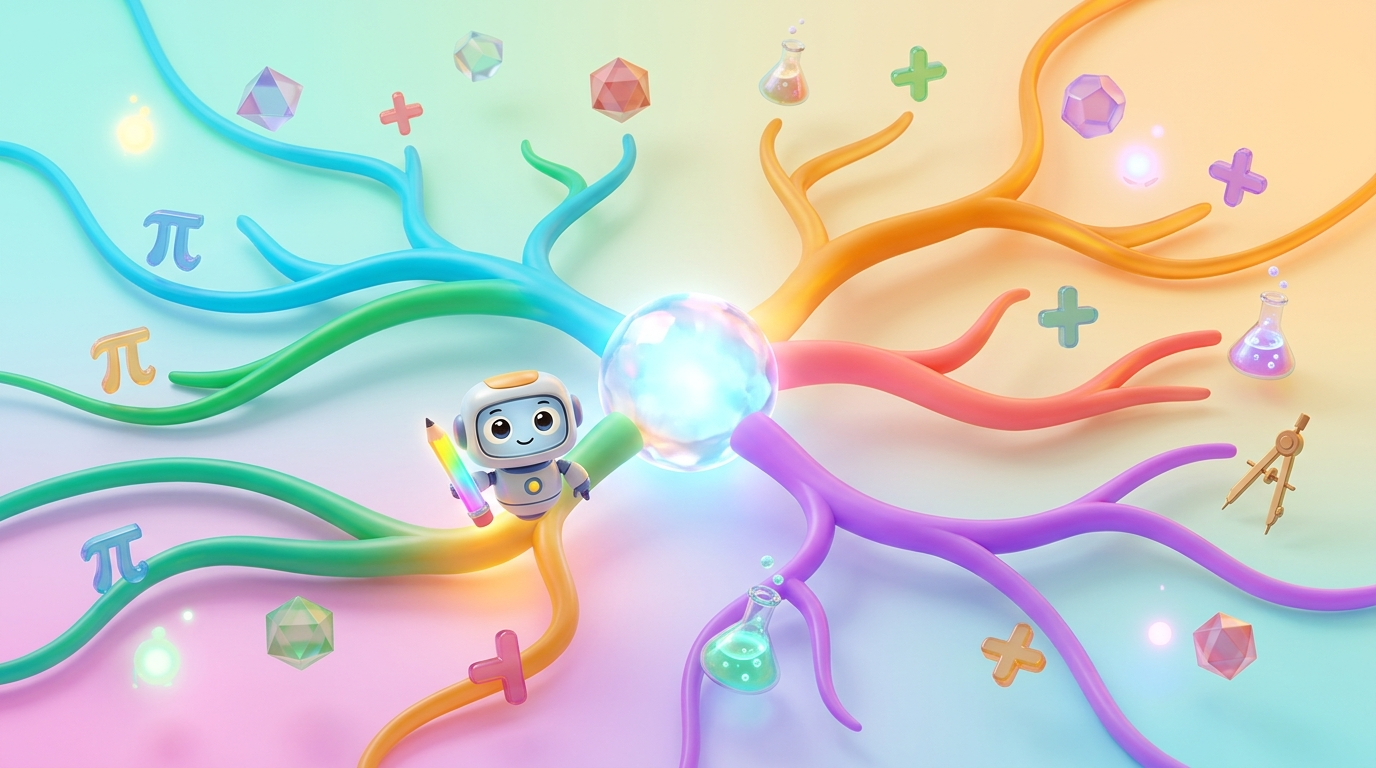
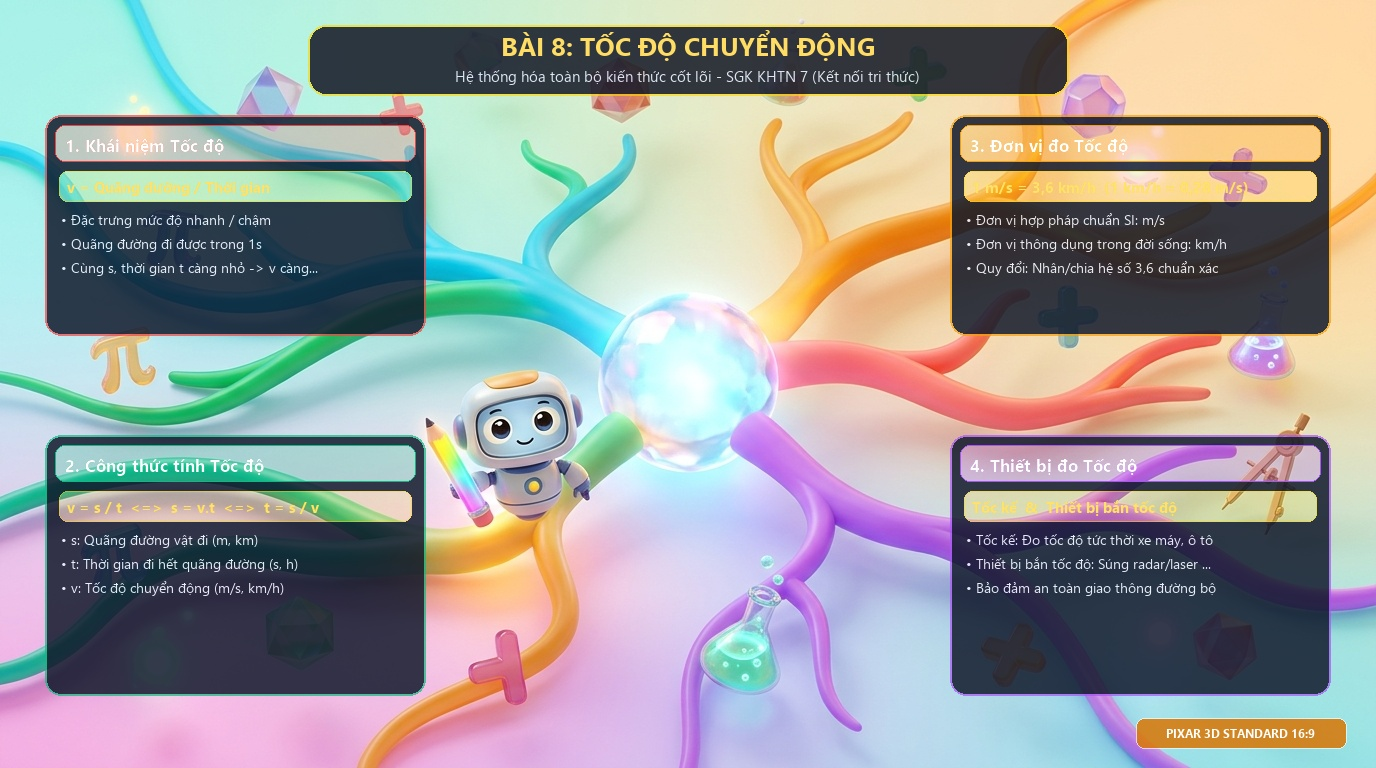
feat: Hien thi day du noi dung bai hoc tren cac nhanh so do tu duy 3D Pixar

diff --git a/src/components/PixarMindmapView.tsx b/src/components/PixarMindmapView.tsx
@@ -21,9 +21,12 @@ export const PixarMindmapView: React.FC<PixarMindmapViewProps> = ({ soDoTuDuy })
     document.body.removeChild(link);
   };
 
+  // Kiểm tra ảnh đã được gắn sẵn nội dung bài học vào các nhánh hay chưa
+  const isGenericBackground = soDoTuDuy.imageUrl?.includes('mindmap-pixar-bg.jpg');
+
   return (
     <div className="my-3 rounded-2xl border-2 border-amber-300 bg-gradient-to-br from-amber-50/90 via-orange-50/40 to-pink-50/70 p-3 sm:p-4 shadow-md transition-all">
-      {/* Header bar - Gọn gàng, chỉ tập trung vào Sơ đồ tư duy 16:9 */}
+      {/* Header bar - Tinh gọn, sang trọng */}
       <div className="flex flex-wrap items-center justify-between gap-2 pb-2 mb-2 border-b border-amber-200/80">
         <div className="flex items-center gap-2">
           <div className="w-7 h-7 rounded-lg bg-gradient-to-tr from-amber-500 to-orange-400 text-white flex items-center justify-center shadow-xs">
@@ -66,30 +69,122 @@ export const PixarMindmapView: React.FC<PixarMindmapViewProps> = ({ soDoTuDuy })
         </div>
       </div>
 
-      {/* Main 16:9 Canvas / Image Display - 100% chuẩn phong cách 3D Pixar */}
+      {/* Main 16:9 Canvas / Image Display - Hiển thị đầy đủ nội dung bài học trên các nhánh */}
       <div className="relative w-full aspect-[16/9] rounded-xl overflow-hidden shadow-inner border border-amber-200/80 bg-slate-900 flex items-center justify-center">
         {soDoTuDuy.imageUrl ? (
           <div className="relative w-full h-full group">
             <img
               src={soDoTuDuy.imageUrl}
               alt={soDoTuDuy.chuDeChinh}
-              className="w-full h-full object-cover sm:object-contain transition-transform duration-300 group-hover:scale-[1.01]"
+              className="w-full h-full object-cover sm:object-contain transition-transform duration-300"
             />
-            {/* Overlay badge on image */}
-            <div className="absolute top-3 left-3 bg-black/60 backdrop-blur-md px-3 py-1.5 rounded-lg text-white border border-white/20">
-              <p className="text-[10pt] font-bold text-amber-300 uppercase tracking-wide">
-                {soDoTuDuy.chuDeChinh}
-              </p>
-              {soDoTuDuy.moTaChuDe && (
-                <p className="text-[8.5pt] text-slate-200 line-clamp-1">
-                  {soDoTuDuy.moTaChuDe}
-                </p>
-              )}
-            </div>
-            {/* Watermark 3D Pixar */}
-            <div className="absolute bottom-3 right-3 bg-amber-500/80 backdrop-blur-md px-2.5 py-1 rounded-md text-white text-[9pt] font-black tracking-wider uppercase shadow-xs">
-              Pixar 3D Standard 16:9
-            </div>
+
+            {/* Nếu là ảnh nền chung chưa có sẵn chữ, overlay các nhánh nội dung bài học lên 4 góc nhánh 3D */}
+            {isGenericBackground && (
+              <>
+                {/* Title Bar ở giữa phía trên */}
+                <div className="absolute top-2 left-1/2 -translate-x-1/2 bg-slate-950/85 backdrop-blur-md px-4 py-1.5 rounded-2xl border border-amber-400/70 shadow-xl text-center z-10 max-w-[80%]">
+                  <h4 className="text-[10pt] sm:text-[12pt] font-black uppercase text-amber-300 tracking-wide line-clamp-1">
+                    {soDoTuDuy.chuDeChinh}
+                  </h4>
+                  {soDoTuDuy.moTaChuDe && (
+                    <p className="text-[7.5pt] sm:text-[8.5pt] text-slate-200 line-clamp-1 hidden sm:block">
+                      {soDoTuDuy.moTaChuDe}
+                    </p>
+                  )}
+                </div>
+
+                {/* 4 Nhánh nội dung bài học gắn trên các nhánh 3D Pixar */}
+                {soDoTuDuy.danhSachNhanh && soDoTuDuy.danhSachNhanh.length > 0 && (
+                  <>
+                    {/* Nhánh 1: Góc trên bên trái */}
+                    {soDoTuDuy.danhSachNhanh[0] && (
+                      <div className="absolute top-[14%] left-[2%] w-[32%] sm:w-[30%] bg-slate-950/85 backdrop-blur-md p-2 rounded-xl border border-sky-400/70 shadow-lg text-white">
+                        <div className="flex items-center gap-1 font-bold text-[8.5pt] sm:text-[9.5pt] text-sky-300 mb-1">
+                          <span>{soDoTuDuy.danhSachNhanh[0].icon3D || '📌'}</span>
+                          <span className="line-clamp-1">{soDoTuDuy.danhSachNhanh[0].tieuDe}</span>
+                        </div>
+                        {soDoTuDuy.danhSachNhanh[0].congThuc && (
+                          <div className="px-1.5 py-0.5 rounded bg-amber-400/20 text-amber-300 font-mono text-[8pt] font-bold mb-1 line-clamp-1">
+                            {soDoTuDuy.danhSachNhanh[0].congThuc}
+                          </div>
+                        )}
+                        <ul className="text-[7.5pt] sm:text-[8.5pt] text-slate-200 space-y-0.5 leading-tight">
+                          {soDoTuDuy.danhSachNhanh[0].cacYCon.slice(0, 3).map((y, yi) => (
+                            <li key={yi} className="line-clamp-1">• {y}</li>
+                          ))}
+                        </ul>
+                      </div>
+                    )}
+
+                    {/* Nhánh 2: Góc dưới bên trái */}
+                    {soDoTuDuy.danhSachNhanh[1] && (
+                      <div className="absolute bottom-[5%] left-[2%] w-[32%] sm:w-[30%] bg-slate-950/85 backdrop-blur-md p-2 rounded-xl border border-emerald-400/70 shadow-lg text-white">
+                        <div className="flex items-center gap-1 font-bold text-[8.5pt] sm:text-[9.5pt] text-emerald-300 mb-1">
+                          <span>{soDoTuDuy.danhSachNhanh[1].icon3D || '📌'}</span>
+                          <span className="line-clamp-1">{soDoTuDuy.danhSachNhanh[1].tieuDe}</span>
+                        </div>
+                        {soDoTuDuy.danhSachNhanh[1].congThuc && (
+                          <div className="px-1.5 py-0.5 rounded bg-amber-400/20 text-amber-300 font-mono text-[8pt] font-bold mb-1 line-clamp-1">
+                            {soDoTuDuy.danhSachNhanh[1].congThuc}
+                          </div>
+                        )}
+                        <ul className="text-[7.5pt] sm:text-[8.5pt] text-slate-200 space-y-0.5 leading-tight">
+                          {soDoTuDuy.danhSachNhanh[1].cacYCon.slice(0, 3).map((y, yi) => (
+                            <li key={yi} className="line-clamp-1">• {y}</li>
+                          ))}
+                        </ul>
+                      </div>
+                    )}
+
+                    {/* Nhánh 3: Góc trên bên phải */}
+                    {soDoTuDuy.danhSachNhanh[2] && (
+                      <div className="absolute top-[14%] right-[2%] w-[32%] sm:w-[30%] bg-slate-950/85 backdrop-blur-md p-2 rounded-xl border border-amber-400/70 shadow-lg text-white">
+                        <div className="flex items-center gap-1 font-bold text-[8.5pt] sm:text-[9.5pt] text-amber-300 mb-1">
+                          <span>{soDoTuDuy.danhSachNhanh[2].icon3D || '📌'}</span>
+                          <span className="line-clamp-1">{soDoTuDuy.danhSachNhanh[2].tieuDe}</span>
+                        </div>
+                        {soDoTuDuy.danhSachNhanh[2].congThuc && (
+                          <div className="px-1.5 py-0.5 rounded bg-amber-400/20 text-amber-300 font-mono text-[8pt] font-bold mb-1 line-clamp-1">
+                            {soDoTuDuy.danhSachNhanh[2].congThuc}
+                          </div>
+                        )}
+                        <ul className="text-[7.5pt] sm:text-[8.5pt] text-slate-200 space-y-0.5 leading-tight">
+                          {soDoTuDuy.danhSachNhanh[2].cacYCon.slice(0, 3).map((y, yi) => (
+                            <li key={yi} className="line-clamp-1">• {y}</li>
+                          ))}
+                        </ul>
+                      </div>
+                    )}
+
+                    {/* Nhánh 4: Góc dưới bên phải */}
+                    {soDoTuDuy.danhSachNhanh[3] && (
+                      <div className="absolute bottom-[5%] right-[2%] w-[32%] sm:w-[30%] bg-slate-950/85 backdrop-blur-md p-2 rounded-xl border border-purple-400/70 shadow-lg text-white">
+                        <div className="flex items-center gap-1 font-bold text-[8.5pt] sm:text-[9.5pt] text-purple-300 mb-1">
+                          <span>{soDoTuDuy.danhSachNhanh[3].icon3D || '📌'}</span>
+                          <span className="line-clamp-1">{soDoTuDuy.danhSachNhanh[3].tieuDe}</span>
+                        </div>
+                        {soDoTuDuy.danhSachNhanh[3].congThuc && (
+                          <div className="px-1.5 py-0.5 rounded bg-amber-400/20 text-amber-300 font-mono text-[8pt] font-bold mb-1 line-clamp-1">
+                            {soDoTuDuy.danhSachNhanh[3].congThuc}
+                          </div>
+                        )}
+                        <ul className="text-[7.5pt] sm:text-[8.5pt] text-slate-200 space-y-0.5 leading-tight">
+                          {soDoTuDuy.danhSachNhanh[3].cacYCon.slice(0, 3).map((y, yi) => (
+                            <li key={yi} className="line-clamp-1">• {y}</li>
+                          ))}
+                        </ul>
+                      </div>
+                    )}
+                  </>
+                )}
+
+                {/* Watermark 3D Pixar */}
+                <div className="absolute bottom-2 right-2 bg-amber-500/80 backdrop-blur-md px-2 py-0.5 rounded text-white text-[8pt] font-black tracking-wider uppercase shadow-xs">
+                  Pixar 3D Standard 16:9
+                </div>
+              </>
+            )}
           </div>
         ) : (
           <div className="text-center text-white p-4">
